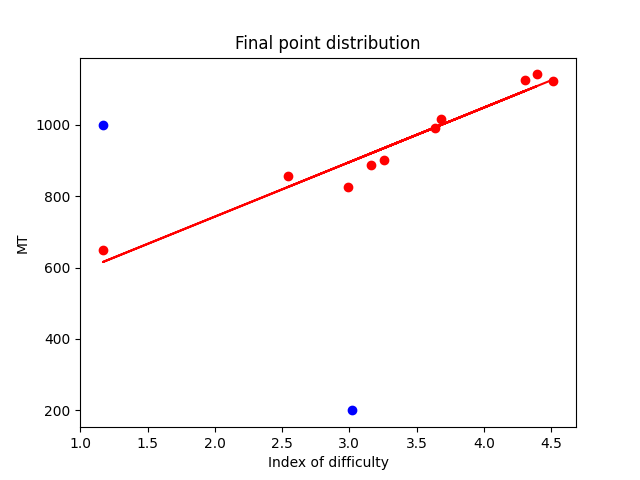
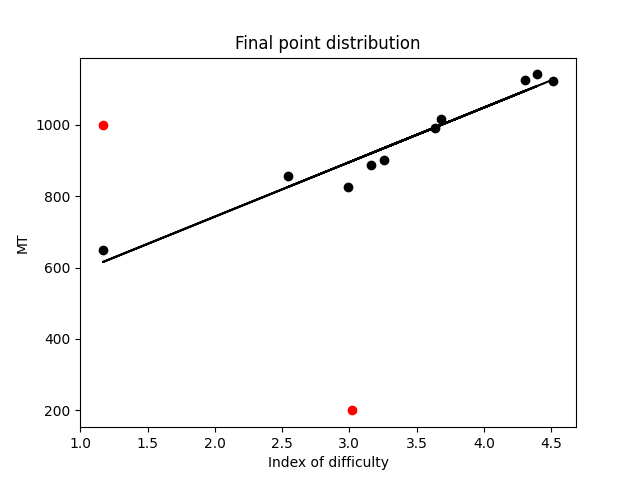
init

diff --git a/simple_fitts_law.py b/simple_fitts_law.py
@@ -131,9 +131,9 @@ print ('b in fitts law (slope): ', fl_b)
 print ("")
 print ("Red dots are the", inliers_n, "inliers contributes the final fitting, and the blue ones are the",len(data[0])-inliers_n, "outliers.")
 #plt.plot(data[0], data[0]*slope_final + intercept, 'r')
-plt.plot(inliers_x, model.predict(inliers_x), color='red')
-plt.scatter(inliers_final[0], inliers_final[1], color = 'r')
-plt.scatter(outliers_final[0], outliers_final[1], color = 'b')
+plt.plot(inliers_x, model.predict(inliers_x), color='black')
+plt.scatter(inliers_final[0], inliers_final[1], color = 'black')
+plt.scatter(outliers_final[0], outliers_final[1], color = 'red')
 plt.title('Final point distribution')
 plt.xlabel('Index of difficulty')
 plt.ylabel('MT')

diff --git a/README.md b/README.md
@@ -12,5 +12,16 @@ python3 simple_fitts_law.py
 The result before outlier removal will be visualized in the same folder:
 ![raw](raw_data.png)
 
-The result after outlier removal is:
+The result after outlier removal is as follow. The black dots are the inliers and the red dots are the outliers.
 ![vis](fitts_law.png)
+
+## RANSAC (Random sample consensus)
+
+Ransac is one of the most most commonly used method to remove outliers; which is especially useful when the data is quite noisy. The program contains RANSAC. You just need to change the iteration number and threshold in line 82, 83.
+
+```bash
+steps = 2000
+thres = 1
+```
+
+The more steps give, it will find better line. The threshold determines how centered the points should be. Set the threshold high could include more points but potentially include more noisy points as well.
